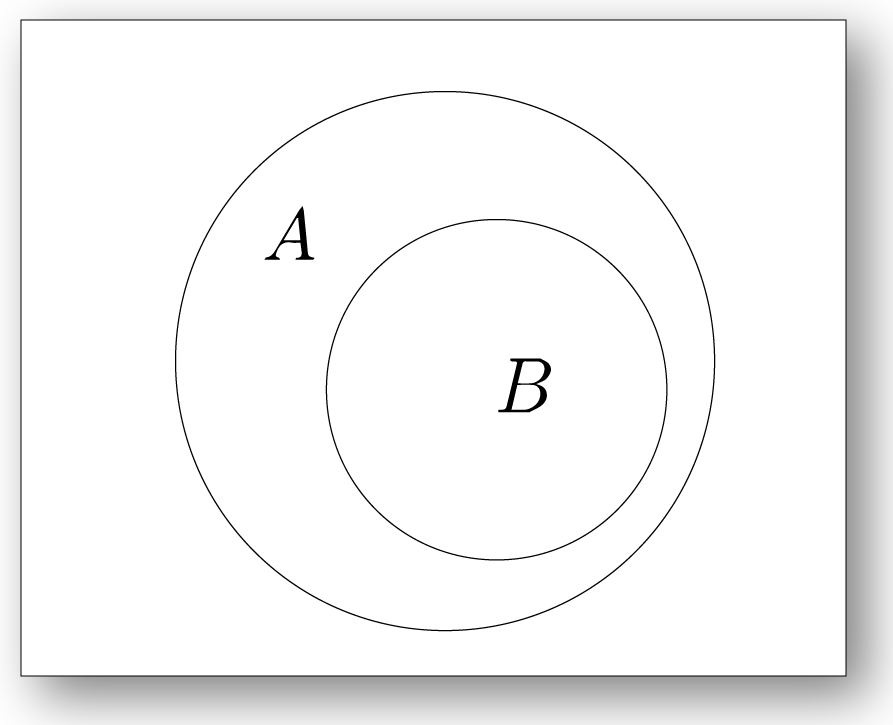
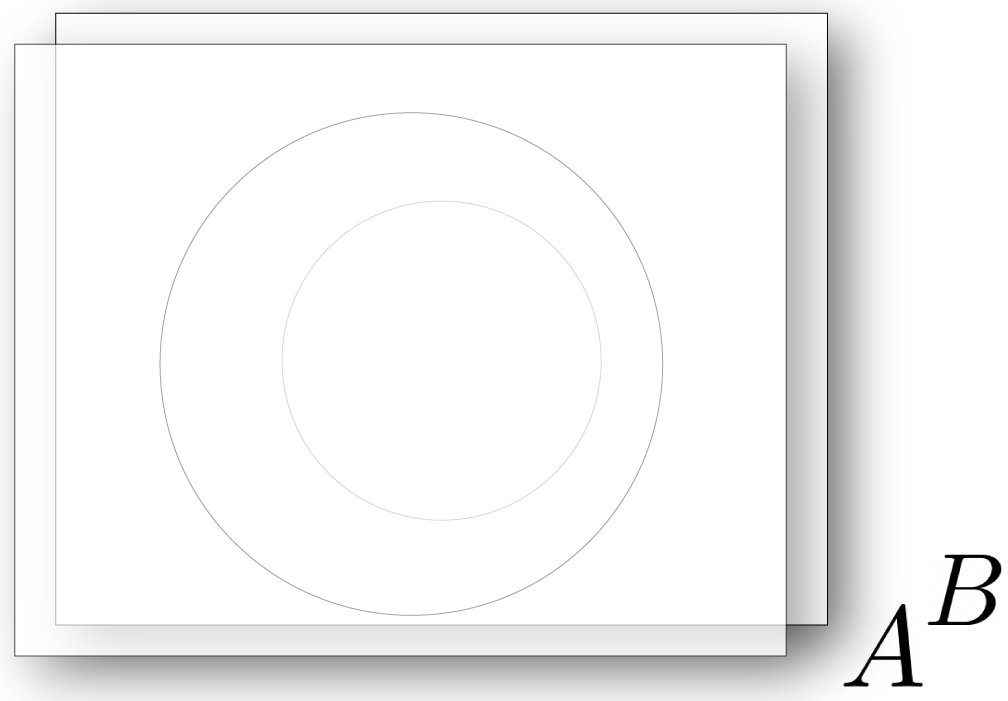
%*

diff --git a/public/stats.html b/public/stats.html
@@ -1,0 +1,258 @@
+<!DOCTYPE html>
+<html xmlns="http://www.w3.org/1999/xhtml" lang="" xml:lang="">
+<head>
+  <meta charset="utf-8" />
+  <meta name="generator" content="pandoc" />
+  <meta name="viewport" content="width=device-width, initial-scale=1.0, user-scalable=yes" />
+  <title>stats</title>
+  <style>
+    code{white-space: pre-wrap;}
+    span.smallcaps{font-variant: small-caps;}
+    div.columns{display: flex; gap: min(4vw, 1.5em);}
+    div.column{flex: auto; overflow-x: auto;}
+    div.hanging-indent{margin-left: 1.5em; text-indent: -1.5em;}
+    ul.task-list{list-style: none;}
+    ul.task-list li input[type="checkbox"] {
+      width: 0.8em;
+      margin: 0 0.8em 0.2em -1.6em;
+      vertical-align: middle;
+    }
+  </style>
+  <link rel="stylesheet" href="pandoc.css" />
+  <script src="https://polyfill.io/v3/polyfill.min.js?features=es6"></script>
+  <script
+  src="https://cdn.jsdelivr.net/npm/mathjax@3/es5/tex-chtml-full.js"
+  type="text/javascript"></script>
+  <!--[if lt IE 9]>
+    <script src="//cdnjs.cloudflare.com/ajax/libs/html5shiv/3.7.3/html5shiv-printshiv.min.js"></script>
+  <![endif]-->
+</head>
+<body>
+<nav id="TOC" role="doc-toc">
+<ul>
+<li><a href="#expected-value-and-convergence"
+id="toc-expected-value-and-convergence">Expected Value and
+Convergence</a></li>
+<li><a href="#transformations-of-rvs"
+id="toc-transformations-of-rvs">Transformations of RVs</a>
+<ul>
+<li><a href="#expected-value-of-any-rv"
+id="toc-expected-value-of-any-rv">Expected value of any RV</a></li>
+<li><a href="#going-back-to-a-homework-problem"
+id="toc-going-back-to-a-homework-problem">going back to a homework
+problem</a></li>
+</ul></li>
+<li><a href="#variance" id="toc-variance">Variance</a>
+<ul>
+<li><a href="#simulation-study-discrete"
+id="toc-simulation-study-discrete">Simulation Study: Discrete</a></li>
+<li><a href="#simulation-study-continuous"
+id="toc-simulation-study-continuous">Simulation Study:
+Continuous</a></li>
+<li><a href="#general-conjecture" id="toc-general-conjecture">General
+conjecture</a></li>
+<li><a href="#definition-of-variance"
+id="toc-definition-of-variance">Definition of Variance</a></li>
+</ul></li>
+</ul>
+</nav>
+<h2 id="expected-value-and-convergence">Expected Value and
+Convergence</h2>
+<h4 id="convergence-of-discrete-cdfs">Convergence of Discrete CDFs</h4>
+<p>Let X be an discrete RV with CDF <span class="math display">\[F_X(x)
+= \sum_{k = 0}^K p_k \cdot \mathbb{1}_{[x_k, +\infty)}(x)\]</span></p>
+<ol type="1">
+<li>If <span class="math inline">\(\sum_{k = 0}^K p_k \cdot
+\mathbb{1}_{[x_k, +\infty)}(x) &lt; +\infty\)</span>, then the expected
+value <span class="math inline">\(\mathbb{E}X\)</span> is the mean of
+<span class="math inline">\(x_kp_k\)</span>.</li>
+<li>If <span class="math inline">\(\sum_{k = 0}^K p_k \cdot
+\mathbb{1}_{[x_k, +\infty)}(x) = +\infty\)</span>, then the expected
+value <span class="math inline">\(\mathbb{E}X\)</span> does not
+exist.</li>
+</ol>
+<p>The mean of <span class="math inline">\(x_kp_k\)</span> is <span
+class="math display">\[\sum_{k=0}^{+\infty}x_k p_k = x_0p_0 + x_1p_1 +
+x_2p_2 \ldots\]</span></p>
+<p>But <span class="math inline">\(x_0, x_1, x_2 \ldots\)</span> are
+created equal! We should have</p>
+<p><span class="math display">\[\sum_{k=0}^{+\infty}x_k p_k =
+\sum_{k=0}^{+\infty}x_{\sigma(k)} p_{\sigma(k)}\]</span> so that our sum
+is permutation invariant. In order to guarantee this equation above is
+true, we have two concepts:</p>
+<ul>
+<li><p>If <span class="math inline">\(\sum_{k=0}^{+\infty}|x_k| p_k &lt;
++\infty\)</span>, then the permutation invariant is true. This also
+means that the series <span
+class="math inline">\(\sum_{k=0}^{+\infty}x_k p_k\)</span> is absolutely
+convergent.</p></li>
+<li><p>If <span class="math inline">\(\sum_{k=0}^{+\infty}|x_k| p_k =
++\infty\)</span>, then it is not permutation-invariant.</p></li>
+</ul>
+<h4 id="convergence-of-continuous-cdfs">Convergence of Continuous
+CDFs</h4>
+<p>Let X be a continuous RV with PDF <span
+class="math inline">\(p_X(x)\)</span>.</p>
+<ol type="1">
+<li>If <span class="math inline">\(\int_{-\infty}^{+\infty}|x|p_X(x)
+&lt; +\infty\)</span>, then the expected value <span
+class="math inline">\(\mathbb{E}X =
+\int_{-\infty}^{+\infty}|x|p_X(x)\)</span>.</li>
+<li>If <span class="math inline">\(\int_{-\infty}^{+\infty}|x|p_X(x) =
++\infty\)</span>, then the expected value <span
+class="math inline">\(\mathbb{E}X\)</span> does not exist.</li>
+</ol>
+<p><strong>Remark</strong>: The condition ” <span
+class="math inline">\(\int_{-\infty}^{+\infty}|x|p_X(x) &lt;
++\infty\)</span>” invovles something more subtle… “Lebesque
+integrals”.</p>
+<p><strong>Example</strong>: Let X be continuous RV with the following
+PDF</p>
+<p><span class="math display">\[p_X(x) = \frac{1}{\pi(1+x^2)}, x \in
+\mathbb{R}\]</span></p>
+<p>The expected value does not exist. (to be proved in HW5)</p>
+<h2 id="transformations-of-rvs">Transformations of RVs</h2>
+<p><span class="math display">\[\Omega = \{ \text {students taking APMA
+1655}  \} (\omega \in \Omega: \text{is a student})\]</span></p>
+<p><span class="math inline">\(X(\omega) = \text{ the score } \omega
+\text{ gets in the final exam }\)</span></p>
+<p>The professor wants to curve the score like this: <span
+class="math display">\[Y(\omega) = \min\{X(\omega)^2, 100\}\]</span></p>
+<p>If <span class="math inline">\(g(x) = \min\{x^2, 100\}\)</span>, we
+have <span class="math inline">\(Y(\omega) = g(Y(\omega))\)</span>.
+Suppose we are given - RV <span class="math inline">\(X: \Omega
+\rightarrow \mathbb{R}\)</span> - a function <span
+class="math inline">\(g: \mathbb{R} \rightarrow \mathbb{R}\)</span></p>
+<p><span class="math display">\[\Omega \rightarrow \mathbb{R}
+\rightarrow \mathbb{R}\]</span> <span class="math display">\[\omega
+\rightarrow X(\omega) \rightarrow g(X(\omega))\]</span></p>
+<p>We know how to calculate <span
+class="math inline">\(\mathbb{E}X\)</span>. To compute <span
+class="math inline">\(\mathbb{E}[g(X)]\)</span> we need a new
+definition.</p>
+<h4 id="expected-value-of-an-transformed-rv">Expected value of an
+transformed RV</h4>
+<p>Definition: Suppose <span class="math inline">\(X\)</span> and <span
+class="math inline">\(g\)</span> are given. 1. Suppose X is discrete and
+has CDF <span class="math inline">\(\sum_{k=0}^K p_k \cdot
+\mathbb{1}_{[x_k, +\infty)}(x)\)</span>. If <span
+class="math inline">\(\sum_{k=0}^K|g(x_k)| p_k &lt; +\infty\)</span>
+then <span class="math display">\[\mathbb{E}[g(X)] = \sum_{k=0}^K
+g(x_k)\cdot p_k.\]</span> 2. Suppose X is continuous and has PDF <span
+class="math inline">\(p_X(x)\)</span>. If <span
+class="math inline">\(\int_{-\infty}^{\infty}|g(x)|p_X(x)dx &lt;
++\infty\)</span>, then <span class="math inline">\(\mathbb{E}[g(x)] =
+\int_{-\infty}^{\infty}g(x)p_X(x)dx\)</span>. Otherwise, <span
+class="math inline">\(\mathbb{E}[g(x)]\)</span> does not exist!</p>
+<p>This definition is actually a theorem in graduate-level probability
+theory course, called “Law of the unconscious statistician”.</p>
+<h3 id="expected-value-of-any-rv">Expected value of any RV</h3>
+<p>For a random variable who’s CDF can be decomposed in this way… (all
+of them) Definition: Let <span class="math inline">\(X\)</span> be a RV
+with the following CDF: <span class="math display">\[F_X(x) = p \cdot
+F_Z(x) + (1 - p)F_W(x)\]</span> where <span class="math inline">\(0 \leq
+p \leq 1\)</span>, <span class="math inline">\(Z\)</span> is a discrete
+RV with CDF <span class="math inline">\(F_Z\)</span> <span
+class="math inline">\(W\)</span> is a continuous RV with CDF <span
+class="math inline">\(F_W\)</span>.j</p>
+<p>We define <span class="math inline">\(\mathbb{E}X = p \cdot
+\mathbb{E}Z + (1 - p) \cdot \mathbb{E}W\)</span>, if <span
+class="math inline">\(\mathbb{E}Z\)</span> and <span
+class="math inline">\(\mathbb{E}W\)</span> exist.</p>
+<h3 id="going-back-to-a-homework-problem">going back to a homework
+problem</h3>
+<p><span class="math inline">\(X = YZ + (1 - Y) \cdot W\)</span> where
+<span class="math inline">\(Y\)</span> ~ Bernoulli(<span
+class="math inline">\(\frac{1}{3}\)</span>), <span
+class="math inline">\(Z\)</span> ~ Pois(<span
+class="math inline">\(\lambda\)</span>). As we all know from homework
+problem 4.5, we have <span class="math display">\[\mathbb{E}Z =
+\lambda\]</span> And also <span class="math display">\[\mathbb{E}W =
+1000\]</span></p>
+<p>Then <span class="math inline">\(\mathbb{E}X\)</span> is <span
+class="math inline">\(\frac{1}{3}\lambda + \frac{2}{3}1000\)</span>, by
+the expected value of any RV.</p>
+<h2 id="variance">Variance</h2>
+<p>Let <span class="math inline">\(X\)</span> be a random variable from
+some distribution.</p>
+<p>The distribution generates numbers <span class="math inline">\(X_1,
+X_2, ... X_n\)</span>.</p>
+<p>For example, if we use Bernoulli we will get 0 1 0 1 0 0 1 …</p>
+<p>Well, for this sequence, we can take the average <span
+class="math inline">\(\bar{X_n} = \frac{X_1 + X_2 + ... + X_n}{n} =
+\mathbb{E}X\)</span>. But this is not exactly equal to <span
+class="math inline">\(\mathbb{E}X\)</span> for <span
+class="math inline">\(n = 10\)</span> or <span
+class="math inline">\(100\)</span>… For <span
+class="math inline">\(n\)</span> numbers, we have error as: <span
+class="math display">\[e_n = |\bar{X_n} - \mathbb{E}X|\]</span></p>
+<p>What does the error <span class="math inline">\(e_n\)</span> depend
+on?</p>
+<ul>
+<li><p><span class="math inline">\(n\)</span>. For less <span
+class="math inline">\(n\)</span>, the average is usually worse. That is,
+the average is not the true expected value for a distribution.</p></li>
+<li><p>The distribution, of course!</p></li>
+</ul>
+<h3 id="simulation-study-discrete">Simulation Study: Discrete</h3>
+<p>We can relate the error <span class="math inline">\(e_n\)</span> to
+the discrete distribution as follows.</p>
+<p>Generate <span class="math inline">\(X_1, X_2, \ldots X_n\)</span>
+from Bernoulli(<span class="math inline">\(p\)</span>).</p>
+<p>Claim: <span class="math inline">\(e_n = |\bar{X_n} - p|\)</span> is
+likely to be smaller than <span class="math display">\[\sqrt{p \cdot
+(1-p) \cdot \frac{2\log(\log(n))}{n}}\]</span></p>
+<p><span class="math inline">\(V\)</span> here is <span
+class="math inline">\(p(1-p)\)</span>.</p>
+<h3 id="simulation-study-continuous">Simulation Study: Continuous</h3>
+<p>We have a similar error <span class="math inline">\(e_n\)</span> for
+continuous distributions.</p>
+<p>Generate <span class="math inline">\(X_1, X_2, \ldots X_n\)</span>
+from Poisson(<span class="math inline">\(\lambda\)</span>).</p>
+<p>Claim: <span class="math inline">\(e_n = |\bar{X_n} -
+\lambda|\)</span> is likely to be smaller than <span
+class="math display">\[\sqrt{\lambda \cdot
+\frac{2\log(\log(n))}{n}}\]</span></p>
+<p><span class="math inline">\(V\)</span> here is <span
+class="math inline">\(\lambda\)</span>.</p>
+<blockquote>
+<p>What does <em>likely</em> mean in this context? If we run a
+simulation <span class="math inline">\(\infty\)</span> times, then the
+number of simulations under the curve over the total number approaches
+1.</p>
+</blockquote>
+<h3 id="general-conjecture">General conjecture</h3>
+<p>Assume that the expected value exists. Generate <span
+class="math inline">\(X_1, X_2, \ldots X_n\)</span> from a
+distribution.</p>
+<p><span class="math inline">\(e_n = |\bar{X_n} - \mathbb{E}X|\)</span>
+is likely to be smaller than <span class="math display">\[\sqrt{V \cdot
+\frac{2\log(\log(n))}{n}}\]</span></p>
+<p><span class="math inline">\(V\)</span> is the variance of <span
+class="math inline">\(X\)</span>.</p>
+<p>This is the <a
+href="https://www.wikiwand.com/en/Law_of_the_iterated_logarithm">law of
+the iterated logarithm</a>.</p>
+<h3 id="definition-of-variance">Definition of Variance</h3>
+<p>Okay, now we go to a a result. The proof isn’t related to anything
+above, only it’s application.</p>
+<p>Let X be a RV, whose expected value <span
+class="math inline">\(\mathbb{E}X\)</span> exists.</p>
+<p>We define a function <span class="math inline">\(g(x) = (x -
+\mathbb{E}X)^2\)</span></p>
+<p>We call <span class="math inline">\(\mathbb{E}[g(X)]\)</span> as the
+variance of <span class="math inline">\(X\)</span> if <span
+class="math inline">\(\mathbb{E}[g(X)]\)</span> exists. That is,</p>
+<p><span class="math display">\[\text{V} (X) = \mathbb{E}[(X -
+\mathbb{E}X)^2]\]</span></p>
+<p>Variance is nothing but the expected expected squared deviation from
+the <span class="math inline">\(\mathbb{E}X\)</span>. That is, for every
+<span class="math inline">\(\mathbb{E}X\)</span> we will have an
+expected squared deviation. In turn, we have a squared deviation, <span
+class="math inline">\(g(x)\)</span> for each value of <span
+class="math inline">\(X\)</span>.</p>
+<div id="footer">
+    © 2023 <a href="http://eric-xia.com">Eric Xia</a>
+  </div>
+</body>
+</html>

diff --git a/public/proofs.html b/public/proofs.html
@@ -23,6 +23,10 @@
 </head>
 <body>
 
+<h1>
+ Space Logic Lemmas
+</h1>
+
 <p>Here I will introduce some basic proof structures in an intuitive format, namely that of circles. It's borrowing a lot and perhaps scratching the surface of theories With Names, but I think these results on their own are very fun, self-contained, and intuitive. </p>
 
 <h1>Everything*</h1>
@@ -33,12 +37,12 @@
 
 <h1>A and B</h1>
 
-<p>The first example here is set intersection. Given sets A and B, their intersection is all of the elements in both set A and in set B. This can be seen as the overlapping area, in both circles, or A and B. </p>
+<p>The first example here is set intersection. Given sets A and B, their intersection is all of the elements in both set A and in set B. This is the overlapping area in a world between A and B. </p>
 
 <img src="pf-images/A-intersect-B.png">
 
 <h1> A implies B</h1>
-We have moved out of statements about worlds to statements about statements. We are not looking at areas within a world. We are talking about comparing areas across worlds. In a world with A, we have B. 
+With the use of "implies", we have moved out of statements <i>in</i> worlds to statements <i>about</i> worlds. We are not looking at areas within a world. We are talking about comparing areas across worlds. In every world with A, we have B. 
 
 <img src="pf-images/A-implies-B.png">
 

diff --git a/public/index.html b/public/index.html
@@ -1116,6 +1116,7 @@ while len(quadrants) != len(set(quadrants)):
             </div>
         </div>
         <div class="projects">
+            <a href="stats.html">APMA1655 Notes</a>
             <a href="images/whitehorse.jpg">RISD FOUND-1001 projects
                 <img class="w-50" src="images/whitehorse.jpg">
                 <img class="w-50" src="images/Ystick2.jpg" </a>
